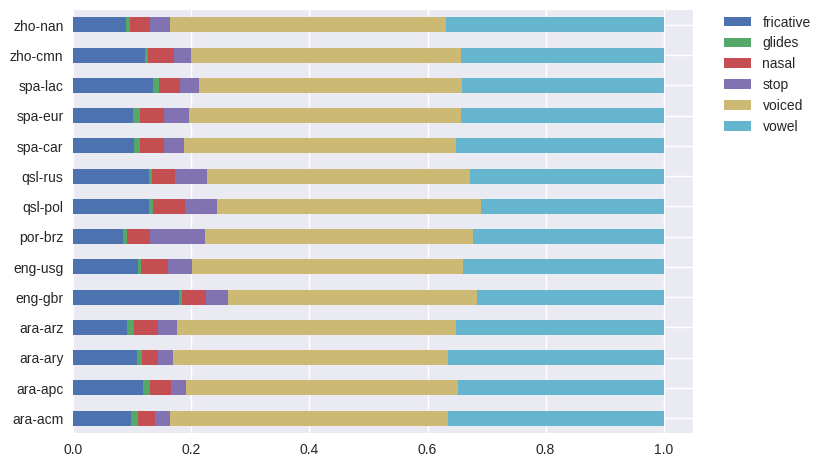
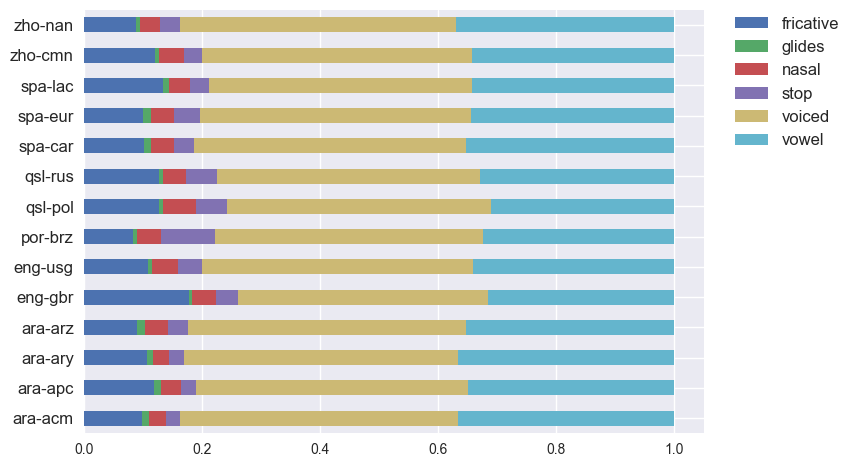
implemented violin and distribution plots

diff --git a/attributes/content.py b/attributes/content.py
@@ -13,6 +13,7 @@ import pandas as pd
 import matplotlib.pyplot as plt
 import joblib as jl
 import plotter as pltr
+from scipy.optimize import curve_fit
 
 MANNER_CLS = []
 PLACE_CLS = []
@@ -21,7 +22,7 @@ ATTRIBUTES_CLS = {'manner': ['fricative', 'glides', 'nasal', 'other', 'silence',
                             'low', 'mid', 'other', 'palatal', 'silence', 'velar'],
                   'fusion_manner': [],
                   'fusion_place': []}
-N_HIST = 20
+N_HIST = 100
 
 
 class Stats(object):
@@ -192,6 +193,16 @@ def prepare_mean(stats_store, langs, stat, scale=True):
     return mean_clean
 
 
+def set_axis_style(ax, labels):
+    ax.get_xaxis().set_tick_params(direction='out')
+    ax.xaxis.set_ticks_position('bottom')
+    # ax.set_xticks(np.arange(1, len(labels) + 1))
+    ax.set_xticks(pos)
+    ax.set_xticklabels(labels)
+    # ax.set_xlim(0.25, len(labels) + 0.75)
+    ax.set_xlabel('Attributes')
+
+
 if __name__ == '__main__':
     attrib_type = 'place'
     dump_file = '%s_stat.pkl' % attrib_type
@@ -202,11 +213,16 @@ if __name__ == '__main__':
     debug = False
 
     if debug:
-        root_path = './data/lre'
         n_jobs = 2
+        root_path = './data/lre'
+        lang_dirs = np.sort(os.listdir(root_path)).tolist()
     else:
-        root_path = '/sipudata/pums/ivan/projects_data/mulan_lre17/train'
         n_jobs = 20
+        root_path = '/sipudata/pums/ivan/projects_data/mulan_lre17/train'
+        lang_dirs = np.sort(['ara-acm', 'ara-ary', 'eng-gbr', 'por-brz', 'qsl-rus',
+                             'spa-eur', 'zho-cmn', 'ara-apc', 'ara-arz', 'eng-usg', 'qsl-pol',
+                             'spa-car', 'spa-lac', 'zho-nan'])
+
     # if dump exist, just update it
     if os.path.isfile(dump_file):
         pkl_file = open(dump_file, 'rb')
@@ -215,7 +231,6 @@ if __name__ == '__main__':
     else:
         stats_store = collections.defaultdict(dict)
 
-    lang_dirs = np.sort(os.listdir(root_path)).tolist()
     lang_paths = [path.join(root_path, ld) for ld in lang_dirs]
     # ===
     # number of utterance per language
@@ -260,13 +275,13 @@ if __name__ == '__main__':
     # ===
     # continues mean across utterances
     # ===
-    if check_key(stats_store, Stats.cont_mean):
-        start = time.time()
-        r = language_global_mean_async(lang_paths, attrib_type, len(lang_dirs), 'multiprocessing')
-        end = time.time()
-        print('Calc %s || : %f' % (Stats.cont_mean, (end - start)))
-        update_store(stats_store, lang_dirs, r, Stats.cont_mean)
-        print(dict(stats_store))
+    # if check_key(stats_store, Stats.cont_mean):
+    #     start = time.time()
+    #     r = language_global_mean_async(lang_paths, attrib_type, len(lang_dirs), 'multiprocessing')
+    #     end = time.time()
+    #     print('Calc %s || : %f' % (Stats.cont_mean, (end - start)))
+    #     update_store(stats_store, lang_dirs, r, Stats.cont_mean)
+    #     print(dict(stats_store))
     # ===
     # Histograms
     # ===
@@ -289,26 +304,81 @@ if __name__ == '__main__':
     # plot statistic figures
     # ===
     # mean of mean
-    mean_clean = prepare_mean(stats_store, lang_dirs, Stats.mean_mean)
-    pltr.plot_stackbars(mean_clean, cls_clean, lang_dirs, '%s_%s.png' % (attrib_type, Stats.mean_mean))
+    # mean_clean = prepare_mean(stats_store, lang_dirs, Stats.mean_mean)
+    # pltr.plot_stackbars(mean_clean, cls_clean, lang_dirs, '%s_%s.png' % (attrib_type, Stats.mean_mean))
 
     # global mean
-    mean_clean = prepare_mean(stats_store, lang_dirs, Stats.cont_mean)
-    pltr.plot_stackbars(mean_clean, cls_clean, lang_dirs, '%s_%s.png' % (attrib_type, Stats.cont_mean))
+    # mean_clean = prepare_mean(stats_store, lang_dirs, Stats.gmean)
+    # pltr.plot_stackbars(mean_clean, cls_clean, lang_dirs, '%s_%s.png' % (attrib_type, Stats.gmean))
 
-    # histogram
-    # bins_arr = np.linspace(0., 1., N_HIST)
-    # width = 0.7 * (bins_arr[1] - bins_arr[0])
-    # center = (bins_arr[:-1] + bins_arr[1:]) / 2
-    # for ld in ['lan1']:
-    #     h = stats_store[ld][Stats.hist]
-    #     for at_id in xrange(len(ATTRIBUTES_CLS[attrib_type])):
-    #         # plt.hist(harr[:, at_id], 100, alpha=0.5)
-    #         # dt = h[at_id, :] /
-    #         plt.bar(center, h[at_id, :], align='center', width=width, alpha=0.5,
-    #                 label=ATTRIBUTES_CLS[attrib_type][at_id])
-    #
-    # plt.legend(loc='upper right')
-    # plt.show()
+    # TODO finish histogram kernel approximation plots
+    # TODO replace histogram with H, edges = np.histogramdd(r, bins = (5, 8, 4))
 
+    # histogram plots
+    # see ref: http://danielhnyk.cz/fitting-distribution-histogram-using-python/
+    from scipy.stats.kde import gaussian_kde
+    import bokeh.io as bio
+    import bokeh.layouts as bl
+    from bokeh.models import ColumnDataSource, FixedTicker, PrintfTickFormatter
+    from bokeh.plotting import figure
+    import colorcet as cc
 
+    def joy(category, data, scale=1.):
+        return list(zip([category] * len(data), scale * data))
+
+    bio.output_file("distribution.html")
+
+    cats = ATTRIBUTES_CLS[attrib_type]
+    palette = [cc.rainbow[i * 15] for i in range(len(cats))]
+    bins = np.linspace(0., 1., N_HIST)
+    delta = (bins[1] - bins[0])
+    center = (bins[:-1] + bins[1:]) / 2
+    xr = np.linspace(-0.5, 1.5, 100)
+
+    plots = []
+    for ld in lang_dirs:
+        p = figure(x_range=(0., 1.), y_range=cats, plot_width=400, plot_height=500, toolbar_location=None, title='Language: %s' % ld)
+        nframes = stats_store[ld][Stats.len] * 3600. / 10e-3
+        h = stats_store[ld][Stats.hist] / nframes
+        source = ColumnDataSource(data=dict(x=xr))
+        for at_id, at in enumerate(ATTRIBUTES_CLS[attrib_type]):
+            pdf = gaussian_kde(h[at_id, :])
+            y = joy(at, pdf(xr), scale=0.2)
+            source.add(y, at)
+            p.patch('x', at, color=palette[at_id], alpha=0.6, line_color="black", source=source)
+        p.y_range.range_padding = 0.12
+        plots.append(p)
+
+    bio.show(bl.column(*plots))
+
+    # ===
+    # Violin Figures
+    # ===
+    fig, axs = plt.subplots(len(lang_dirs), 1, figsize=(20, 30), facecolor='w', edgecolor='k')
+    fig.subplots_adjust(hspace=0.01, wspace=.5)
+    axs = axs.ravel()
+    xp = np.linspace(0., 1.1, 100)
+
+    for i, ld in enumerate(lang_dirs):
+        nframes = stats_store[ld][Stats.len] * 3600. / 10e-3
+        h = stats_store[ld][Stats.hist] / nframes
+        pos = range(1, 2 * len(ATTRIBUTES_CLS[attrib_type]), 2)
+        yp = []
+        for at_id, at in enumerate(ATTRIBUTES_CLS[attrib_type]):
+            # pdf = gaussian_kde(h[at_id, :])
+            # yp.append(pdf(xr))
+            yp.append(h[at_id, :])
+
+        vpart = axs[i].violinplot(yp, pos, points=20, widths=1.5, showmeans=True, showextrema=False, showmedians=False) # showmeans=True, showextrema=True, showmedians=True
+        axs[i].set_ylabel(ld, rotation=0, fontsize=12, ha='right', va='center')
+        axs[i].set_yticks([], [])
+        axs[i].set_xticks([], [])
+
+        for vp, c in zip(vpart['bodies'], palette):
+            vp.set_facecolor(c)
+            vp.set_edgecolor('black')
+            vp.set_alpha(1)
+
+    set_axis_style(axs[i], ATTRIBUTES_CLS[attrib_type])
+    plt.show()
+    plt.savefig('violin_%s.png' % attrib_type, bbox_inches="tight")

diff --git a/attributes/plotter.py b/attributes/plotter.py
@@ -8,8 +8,80 @@ plt.style.use('seaborn')
 def plot_stackbars(data, bar_labels, axis_labels, file_name):
     df = pd.DataFrame(data, columns=bar_labels)
     df.plot(kind='barh', stacked=True)
-    plt.yticks(range(len(axis_labels)), axis_labels)
+    plt.yticks(range(len(axis_labels)), axis_labels, fontsize=12)
     plt.xlim([0, 1.05])
-    plt.legend(bbox_to_anchor=(1.04, 1), borderaxespad=0)
+    plt.legend(bbox_to_anchor=(1.04, 1), borderaxespad=0, fontsize=12)
     plt.show()
     plt.savefig(file_name, bbox_inches="tight")
+
+
+def plot_chord():
+    pass
+
+
+if __name__ == '__main__':
+    """
+    see source: https://bokeh.pydata.org/en/latest/docs/user_guide/plotting.html
+    """
+    from numpy import linspace
+    from scipy.stats.kde import gaussian_kde
+
+    from bokeh.io import output_file, show
+    from bokeh.models import ColumnDataSource, FixedTicker, PrintfTickFormatter
+    from bokeh.plotting import figure
+    from bokeh.sampledata.perceptions import probly
+
+    import colorcet as cc
+
+    output_file("joyplot.html")
+
+
+    def joy(category, data, scale=20):
+        return list(zip([category] * len(data), scale * data))
+
+
+    cats = list(reversed(probly.keys()))
+
+    palette = [cc.rainbow[i * 15] for i in range(17)]
+
+    x = linspace(-20, 110, 500)
+
+    source = ColumnDataSource(data=dict(x=x))
+
+    p = figure(y_range=cats, plot_width=700, x_range=(-5, 105), toolbar_location=None)
+
+    for i, cat in enumerate(reversed([cats[0]])):
+        pdf = gaussian_kde(probly[cat])
+        y = joy(cat, pdf(x))
+        source.add(y, cat)
+        p.patch('x', cat, color=palette[i], alpha=0.6, line_color="black", source=source)
+
+        source2 = ColumnDataSource(data=dict(x=x))
+        pdf = gaussian_kde(probly[cats[3]])
+        y2 = joy(cat, pdf(x), scale=30)
+        source2.add(y2, cat)
+        p.patch('x', cat, color=palette[(2*i) % 17], alpha=0.3, line_color="black", source=source2)
+
+        # x = [1, 3, 2]
+        # y = [(cat, 3),
+        #      (cat, 2),
+        #      (cat, 1)]
+        # p.patch(x, y, color=palette[8], alpha=0.4, line_color="black")
+
+    p.outline_line_color = None
+    p.background_fill_color = "#efefef"
+
+    p.xaxis.ticker = FixedTicker(ticks=list(range(0, 101, 10)))
+    p.xaxis.formatter = PrintfTickFormatter(format="%d%%")
+
+    p.ygrid.grid_line_color = None
+    p.xgrid.grid_line_color = "#dddddd"
+    p.xgrid.ticker = p.xaxis[0].ticker
+
+    p.axis.minor_tick_line_color = None
+    p.axis.major_tick_line_color = None
+    p.axis.axis_line_color = None
+
+    p.y_range.range_padding = 0.12
+
+    show(p)
